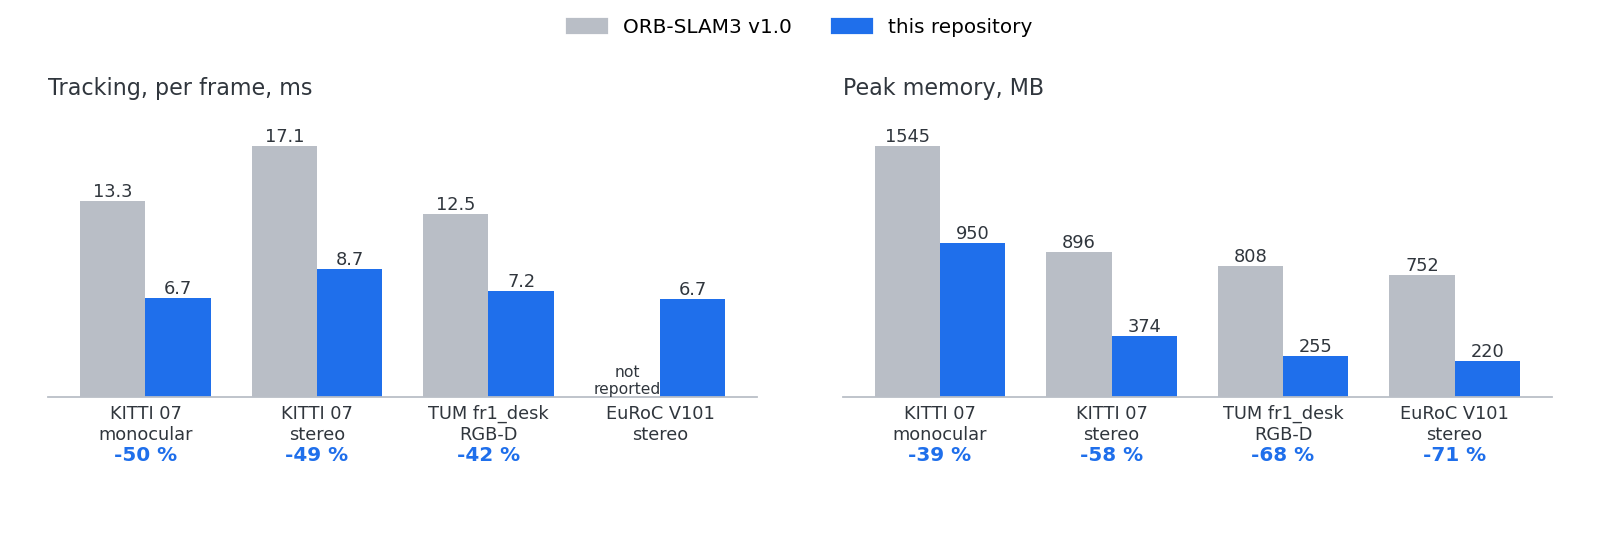
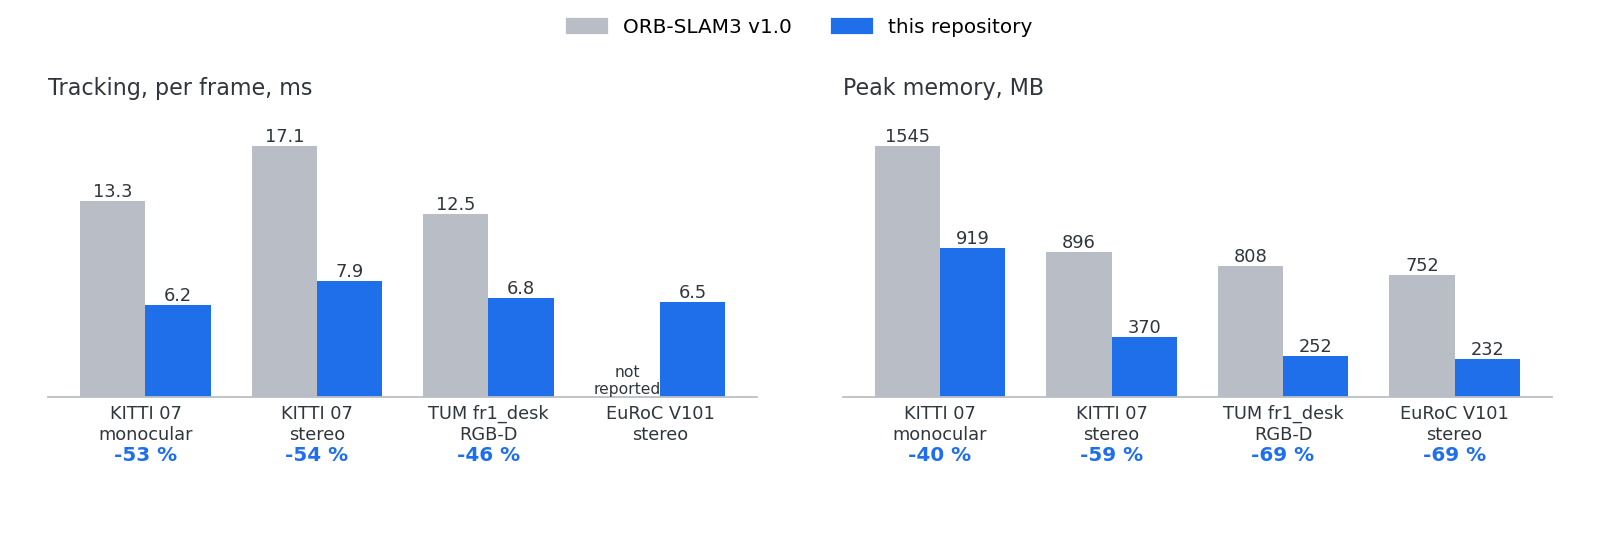
README: the figures at 9affa4d
Three runs of each: tracking 13.3 -> 6.2 ms per frame on KITTI 07 mono,
17.1 -> 7.9 stereo, 12.5 -> 6.8 TUM RGB-D. The extraction stage, which the
stage table had at 6.3 ms, is 5.1 with the one-pass FAST -- that figure is
from tools/bench_orb scaled as the stage was, not a new paired run.

diff --git a/README.md b/README.md
@@ -1,10 +1,10 @@
 # ORB_SLAM3_Remastered
 
 ORB-SLAM3 rebuilt for a robot's onboard computer: monocular, stereo and RGB-D
-SLAM that tracks a frame in half the time of ORB-SLAM3 v1.0 and runs in a
-third of the memory -- 60 % in monocular -- at the same accuracy, with the
-defects found on the way fixed and the code laid out along the architecture
-of the paper.
+SLAM that tracks a frame in under half the time of ORB-SLAM3 v1.0 and runs
+in a third of the memory -- 60 % in monocular -- at the same accuracy, with
+the defects found on the way fixed and the code laid out along the
+architecture of the paper.
 
 ![KITTI 07, stereo: the frame with its features, and the map being built](docs/media/kitti07_stereo.gif)
 
@@ -14,10 +14,10 @@ of the paper.
 
 | Run | Tracking per frame, ms | Peak memory, MB | ATE, m |
 |---|---:|---:|---:|
-| KITTI 07 monocular | 13.3 → **6.7** (-50 %) | 1545 → **950** (-39 %) | 2.13 → 3.17 |
-| KITTI 07 stereo | 17.1 → **8.7** (-49 %) | 896 → **374** (-58 %) | 0.408 → 0.449 |
-| TUM fr1_desk RGB-D | 12.5 → **7.2** (-42 %) | 808 → **255** (-68 %) | 0.018 → 0.018 |
-| EuRoC V101 stereo | – → 6.7 | 752 → **220** (-71 %) | 0.037 → 0.037 |
+| KITTI 07 monocular | 13.3 → **6.2** (-53 %) | 1545 → **919** (-40 %) | 2.13 → 2.71 |
+| KITTI 07 stereo | 17.1 → **7.9** (-54 %) | 896 → **370** (-59 %) | 0.408 → 0.469 |
+| TUM fr1_desk RGB-D | 12.5 → **6.8** (-46 %) | 808 → **252** (-69 %) | 0.018 → 0.018 |
+| EuRoC V101 stereo | – → 6.5 | 752 → **232** (-69 %) | 0.037 → 0.037 |
 
 v1.0 → now, medians of three runs of each, four runs sharing the machine
 (linux/arm64 in Docker, Apple M-series). Accuracy moves from one run to the
@@ -29,10 +29,10 @@ between 0.40 and 0.48 m, monocular between 2.0 and 4.5 (v1.0 between 2.1 and
 
 | Run | Loops closed | Maps merged | Tracking per frame, ms | ATE, m |
 |---|---:|---:|---:|---:|
-| KITTI 05 stereo (three loops) | 3 | – | 10.0 | 1.00 |
-| KITTI 05 monocular | 3 | – | 7.3 | 6.72 |
-| EuRoC V101 + V102 in one session, stereo | 2 | 1 | 7.6 | 0.037 |
-| EuRoC V101 + V102 in one session, monocular | 1 | 1 | 6.6 | 0.037 |
+| KITTI 05 stereo (three loops) | 3 | – | 8.9 | 0.96 |
+| KITTI 05 monocular | 3 | – | 6.6 | 5.55 |
+| EuRoC V101 + V102 in one session, stereo | 3 | 1 | 6.7 | 0.037 |
+| EuRoC V101 + V102 in one session, monocular | 1 | 1 | 6.2 | 0.029 |
 
 One run of each. KITTI 05 monocular has ended between 4.3 and 7.4 m in the
 runs of this tree, and between 5.6 and 7.8 in those of v1.0.
@@ -54,7 +54,7 @@ Per stage, KITTI 07, before this work and now, measured side by side
 
 | Stage, ms | Stereo | Monocular |
 |---|---:|---:|
-| ORB extraction | 12.7 → **6.3** | 10.9 → **5.7** |
+| ORB extraction | 12.7 → **5.1** | 10.9 → **4.6** |
 | Stereo matching | 2.8 → **0.9** | |
 | Tracking, all of it, per frame | 19.3 → **10.9** | 14.5 → **8.9** |
 | Creating map points, per keyframe | 7.6 → **5.4** | 23.0 → **15.3** |
@@ -64,8 +64,10 @@ Per stage, KITTI 07, before this work and now, measured side by side
 
 - **Extraction**: the levels of the image pyramid in parallel -- what is
   extracted does not depend on the number of threads
-  (`ORBextractor.nThreads`) -- and a descriptor's 512 sampling points rotated
-  four at a time (SSE2 / NEON). 9.8 → 4.5 ms an image on two threads.
+  (`ORBextractor.nThreads`); a descriptor's 512 sampling points rotated four
+  at a time (SSE2 / NEON); FAST once over a level instead of once per cell,
+  with a stronger corner across a cell's edge now suppressing a weaker one.
+  9.8 → 3.6 ms an image on two threads, 6.4 on one.
 - **Matching**: descriptors compared 64 bits at a time, inline, in every
   search; stereo matching sums its windows on the pixels instead of making a
   matrix for each.
@@ -87,7 +89,8 @@ Per stage, KITTI 07, before this work and now, measured side by side
   mono is 236 KB; it was 472 as v1.0 keeps it.
 - MapPoints that were culled are freed once no thread can still be using them
   ([docs/OWNERSHIP.md](docs/OWNERSHIP.md)); v1.0 never frees one. A map
-  point's observations are one block, not a node per observation.
+  point's observations are one block, not a node per observation, and the
+  point itself is 0.44 KB, not 0.70.
 
 **Defects of v1.0 that were fixed**
 
@@ -152,8 +155,10 @@ odometry and TUM RGB-D.
   runs of 12, this tree in 1 of 12.
 - One run of TUM fr1_desk RGB-D in fourteen of one build ended at an ATE of
   0.140 m without losing tracking; not explained, and not seen since.
-- FAST detection is what is left of extraction's cost, 5.5 ms of 8 on one
-  thread.
+- Two of the first eleven runs of KITTI 07 stereo with the one-pass FAST
+  ended at 0.55 and 0.86 m where forty runs before had all ended between
+  0.39 and 0.49; sixteen runs of each side by side then showed no
+  difference. Watched.
 - Local bundle adjustment in monocular still runs with g2o's damping; half of
   what an adjustment costs besides is building the graph for g2o.
 - Tracking the local map takes 0.1 to 0.4 ms longer per frame in stereo than
